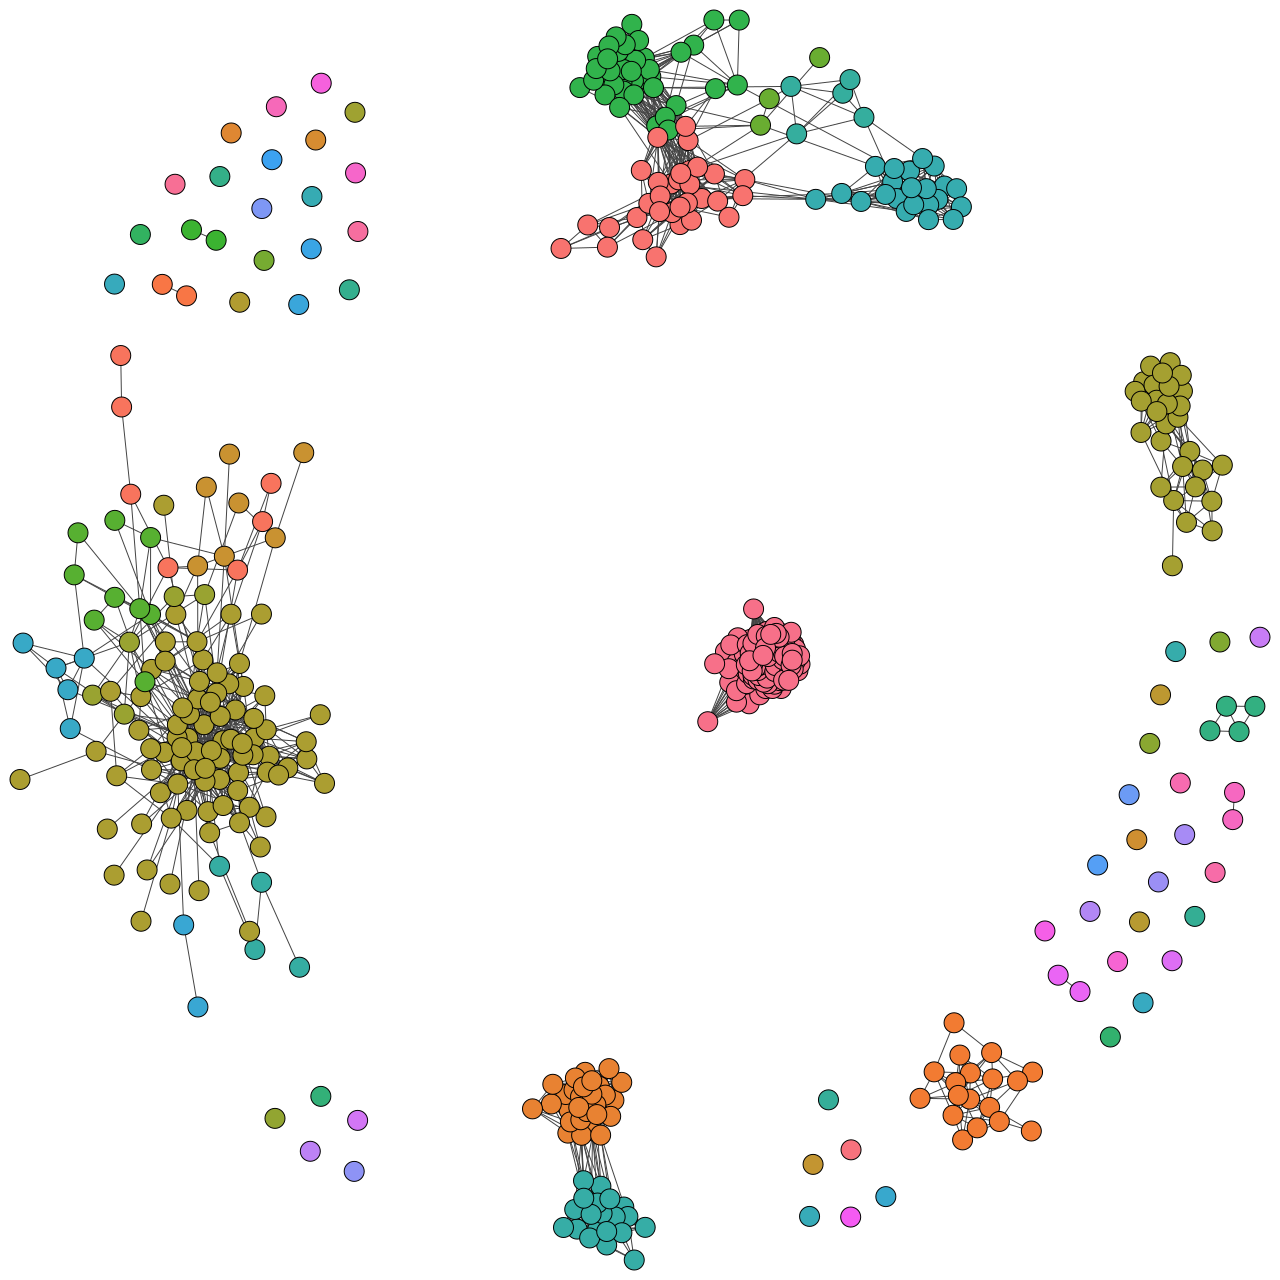
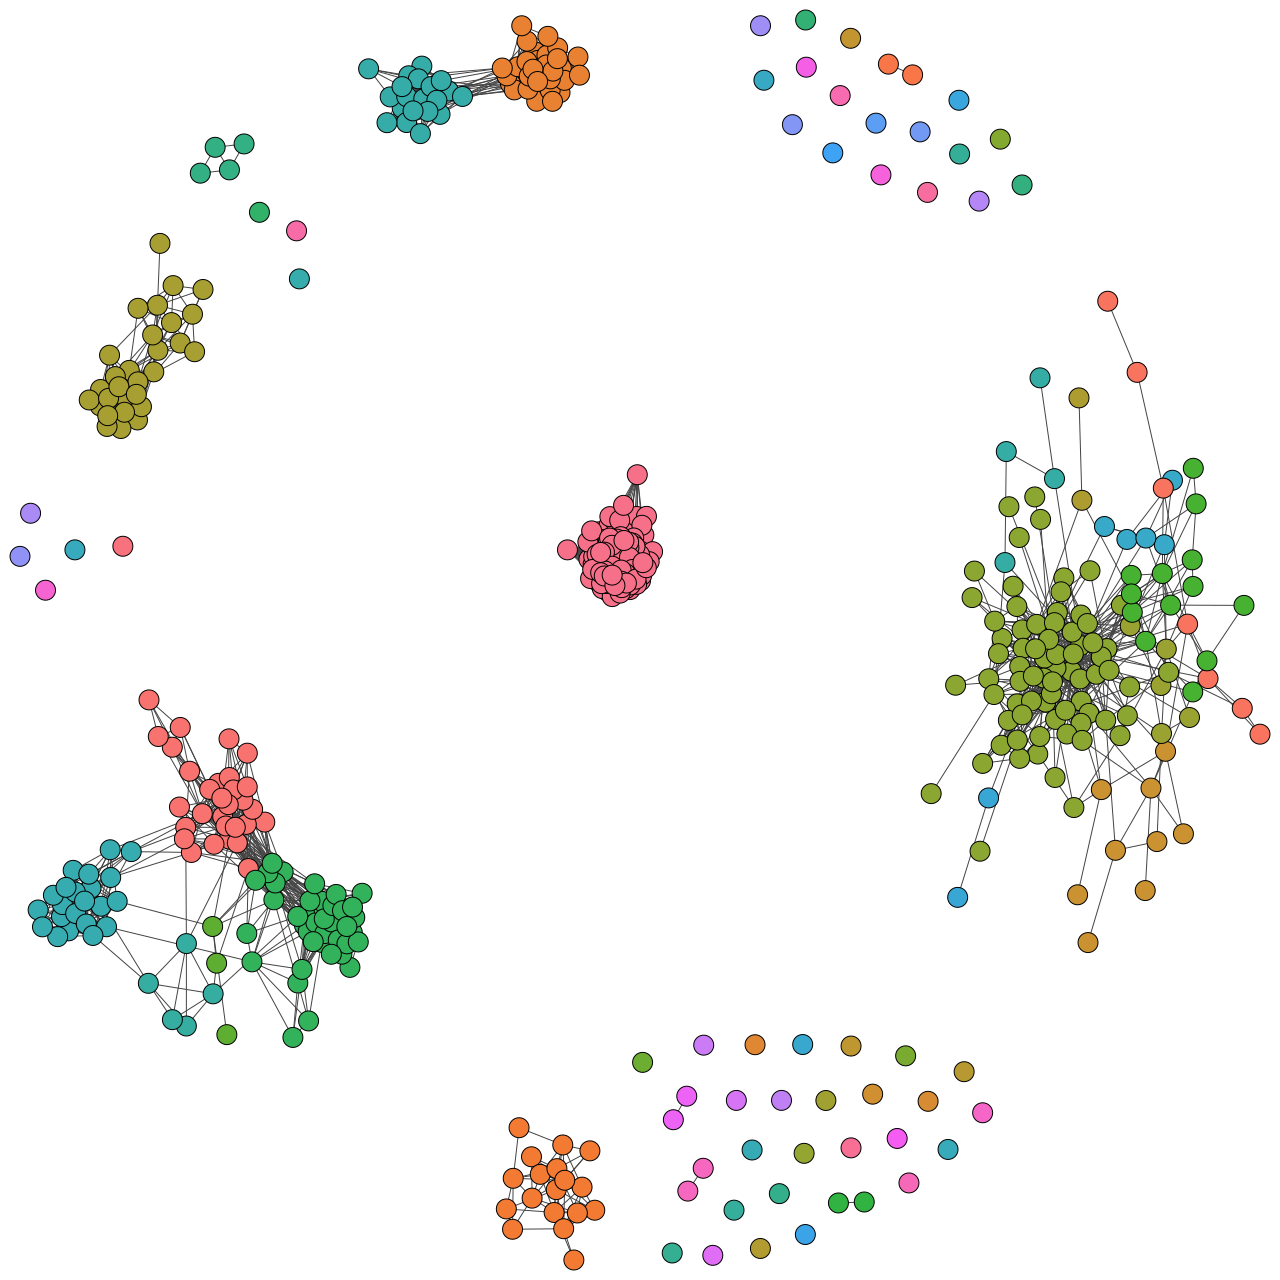
ADD random seed and code to generate more networks  (differentiate low, optimal and high)

diff --git a/scripts/task1.py b/scripts/task1.py
@@ -44,10 +44,10 @@ def create_normalized_matrix(similarity_matrix):
 
     return(normalized_matrix)
 
-def create_graph(normalized_matrix):
+def create_graph(normalized_matrix, threshold):
     num_sequences = normalized_matrix.shape[0]
     edges = [(i, j) for i in range(num_sequences) for j in range(i + 1, num_sequences) if
-                normalized_matrix[i, j] > 0.4]
+                normalized_matrix[i, j] > threshold]
     graph = ig.Graph()
     graph.add_vertices(num_sequences)
     graph.add_edges(edges)
@@ -72,15 +72,25 @@ def get_global_metrics_table(graph):
     return df
 
 def community_detection_plotting(graph):
+    np.random.seed(42)  
+    ig.config.random_seed = 42 
+
+    # REMOVE THIS LINE: ig.Graph.Set_attribute_table("default") 
+    # It is obsolete and causes the AttributeError.
+
     script_dir = os.path.dirname(os.path.abspath(__file__))
     output_file = os.path.join(script_dir, "../results/network_clusters.png")
 
-    communities = graph.community_infomap()
+    # Community detection (Infomap is generally deterministic but benefits from seed)
+    communities = graph.community_infomap() 
+    
+    # Visualization setup
     rainbow = seaborn.color_palette("husl", len(communities))
     colours = [rainbow[communities.membership[v]] for v in graph.vs.indices]
     graph.vs["color"] = colours
+    
+    # Plotting using the 'fr' layout (which uses ig.config.random_seed)
     ig.plot(graph, bbox=(1280, 1280), layout="fr", target = output_file)
-
 
 if __name__ == "__main__":
     sequences = read_data("../data/sequences.txt.xz")
@@ -92,13 +102,23 @@ if __name__ == "__main__":
     normalized_matrix = create_normalized_matrix(blosum_matrix)
     print("Creating Normalized Matrix")
 
-    graph = create_graph(normalized_matrix=normalized_matrix)
-    print("Creating graph")
+    #optimal threshold
+    graph_optimal = create_graph(normalized_matrix=normalized_matrix, threshold=0.4)
+    print("Creating optimal threshold graph")
+    communities = community_detection_plotting(graph_optimal)
+    print("Communities Detected for optimal threshold and file Saved")
 
-    communities = community_detection_plotting(graph)
-    print("Communities Detected and file Saved")
-
-    graph_table = get_global_metrics_table(graph)
+    graph_table = get_global_metrics_table(graph_optimal)
     print("-----Graph Properties Table-----")
     print(graph_table)
 
+    # #---lower threshold ---
+    # graph_lower = create_graph(normalized_matrix=normalized_matrix, threshold=0.2)
+    # graph_table_lower = get_global_metrics_table(graph_lower)
+    # print("-----Graph Properties Table for Lower Threshold-----")
+    # print(graph_table_lower)
+
+    # graph_higher = create_graph(normalized_matrix=normalized_matrix, threshold=0.8)
+    # graph_table_higher = get_global_metrics_table(graph_higher)
+    # print("-----Graph Properties Table for Higher Threshold-----")
+    # print(graph_table_higher)
